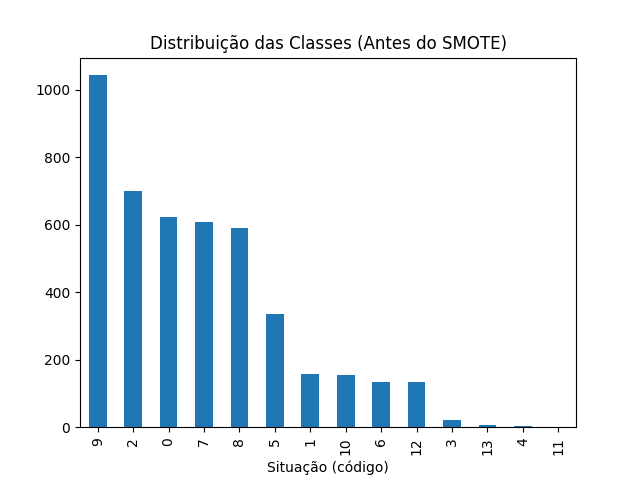
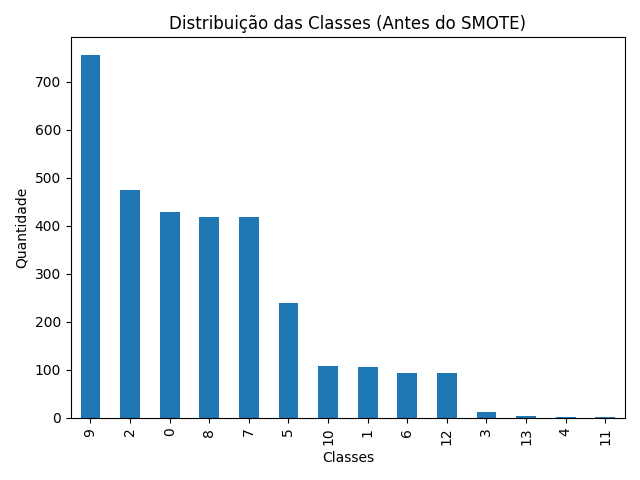
fix: adicionar importação de matplotlib.pyplot para salvar gráficos e ajustar visualização das classes
fix: ajustar SMOTE para k_neighbors=1 para tratar classes muito pequenas

diff --git a/modelo.py b/modelo.py
@@ -1,51 +1,47 @@
 import pandas as pd
 from sklearn.model_selection import train_test_split
+from imblearn.over_sampling import SMOTE
+
+import matplotlib
+matplotlib.use('Agg')  # Configura o matplotlib para modo sem interface gráfica
+import matplotlib.pyplot as plt
 from sklearn.ensemble import RandomForestClassifier
 from sklearn.metrics import classification_report
-from imblearn.over_sampling import SMOTE
-import matplotlib
-matplotlib.use('Agg')  # Usar backend que não abre janela
-
-import matplotlib.pyplot as plt  # <-- Faltava isso!
-import pandas as pd
 
 # Carregar os dados
-df = pd.read_csv('planilha_final.csv', encoding='latin1', sep=';')  # Usa separador correto!
+df = pd.read_csv('planilha_final.csv', encoding='latin1', sep=';')
 
-# Separar features (X) e alvo (y)
-X = df.drop('Situação (código)', axis=1)
+# Separar features e variável alvo
+X = df.drop(columns=['Situação (código)'])
 y = df['Situação (código)']
 
-# Visualizar distribuição inicial
-print("Distribuição das classes (antes do SMOTE):")
-print(y.value_counts())
+# REMOVE colunas categóricas ANTES do split
+colunas_para_remover = ['Curso', 'Bairro', 'Cidade']
+X = X.drop(columns=colunas_para_remover)
 
-# Plotar gráfico de distribuição antes
-y.value_counts().plot(kind='bar', title='Distribuição das Classes (Antes do SMOTE)')
-plt.savefig('grafico_classes.png')
+# Separar treino e teste
+X_train, X_test, y_train, y_test = train_test_split(X, y, test_size=0.3, random_state=42)
 
-# Dividir entre treino e teste
-X_train, X_test, y_train, y_test = train_test_split(X, y, test_size=0.2, random_state=42)
+# Exibir distribuição original
+print('Distribuição das classes (antes do SMOTE):')
+print(y_train.value_counts())
 
-# Aplicar SMOTE no conjunto de treino
-smote = SMOTE(random_state=42)
+# Plotar distribuição das classes
+y_train.value_counts().plot(kind='bar', title='Distribuição das Classes (Antes do SMOTE)')
+plt.xlabel('Classes')
+plt.ylabel('Quantidade')
+plt.tight_layout()
+plt.savefig('grafico_classes.png')  # Salva o gráfico
+plt.close()  # Fecha o gráfico para não travar
+
+# Aplicar SMOTE
+smote = SMOTE(k_neighbors=1, random_state=42)
 X_train_bal, y_train_bal = smote.fit_resample(X_train, y_train)
 
-# Visualizar distribuição depois do SMOTE
-print("\nDistribuição das classes (depois do SMOTE):")
-print(pd.Series(y_train_bal).value_counts())
-
-# Plotar gráfico de distribuição depois
-pd.Series(y_train_bal).value_counts().plot(kind='bar', title='Distribuição das Classes (Depois do SMOTE)')
-plt.savefig('grafico_classes.png')
-
-# Treinar modelo
+# Treinar modelo (exemplo: Random Forest)
 modelo = RandomForestClassifier(random_state=42)
 modelo.fit(X_train_bal, y_train_bal)
 
-# Fazer previsões
+# Avaliar modelo
 y_pred = modelo.predict(X_test)
-
-# Avaliar desempenho
-print("\nRelatório de classificação:")
 print(classification_report(y_test, y_pred))
